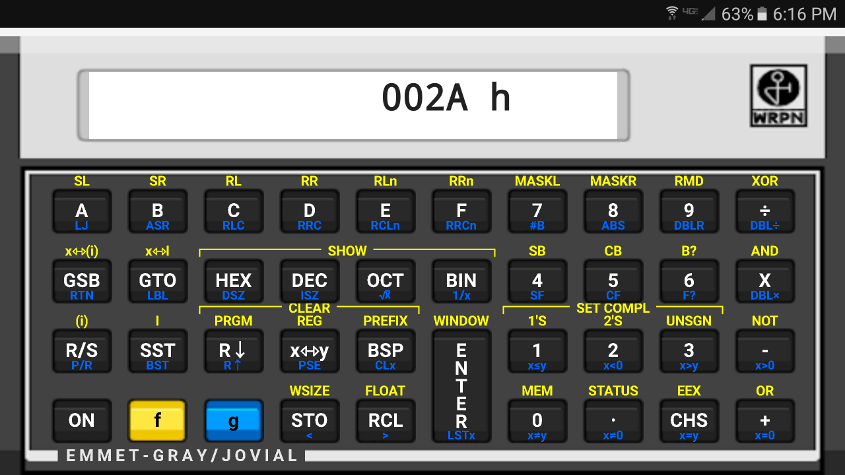
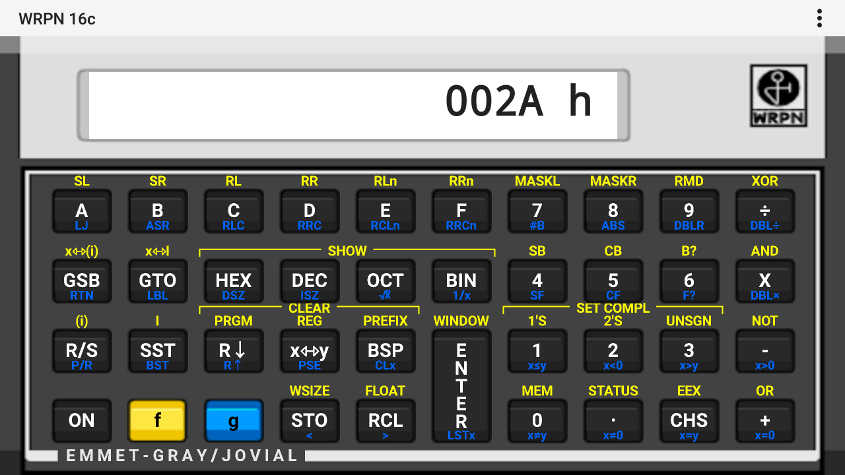
Various fixes to display font sizing.

Changed region(s): [[0.0, 0.0, 1.0, 0.0589], [0.4308, 0.1768, 0.6462, 0.2653], [0.6769, 0.1768, 0.7077, 0.2358]]

diff --git a/app/src/main/java/com/emmetgray/wrpn/DynamicEditText.java b/app/src/main/java/com/emmetgray/wrpn/DynamicEditText.java
@@ -1,16 +1,25 @@
 package com.emmetgray.wrpn;
 
+import android.annotation.SuppressLint;
 import android.content.Context;
 import android.content.res.TypedArray;
+import android.graphics.Paint;
 import android.util.AttributeSet;
+import android.util.Log;
+import android.util.TypedValue;
 import android.view.Gravity;
 import android.widget.EditText;
 
 // a modification of the normal EditText box that allows for the size
 // of the font to dynamically change based upon the length of the string
+@SuppressLint("AppCompatCustomView")
 public class DynamicEditText extends EditText {
-    private float pBaseFontSize = 10f;
-    private int pLengthThreshold = -1;
+
+    private final static String MAX_LARGE_TEXT = "88888888888888888888";
+    private final static String MAX_SMALL_TEXT = " 00000000 00000000 00000000 00000000 .b.";
+
+    private float largeTextSize = 20f;
+    private float smallTextSize = 10f;
 
     public DynamicEditText(Context context) {
         super(context);
@@ -21,10 +30,6 @@ public class DynamicEditText extends EditText {
 
         TypedArray a = getContext().obtainStyledAttributes(attrs,
                 R.styleable.DynamicEditText);
-        pBaseFontSize = a.getFloat(R.styleable.DynamicEditText_baseFontSize,
-                10f);
-        pLengthThreshold = a.getInt(
-                R.styleable.DynamicEditText_lengthThreshold, -1);
         a.recycle();
     }
 
@@ -33,46 +38,54 @@ public class DynamicEditText extends EditText {
 
         TypedArray a = getContext().obtainStyledAttributes(attrs,
                 R.styleable.DynamicEditText);
-        pBaseFontSize = a.getFloat(R.styleable.DynamicEditText_baseFontSize,
-                10f);
-        pLengthThreshold = a.getInt(
-                R.styleable.DynamicEditText_lengthThreshold, -1);
         a.recycle();
     }
 
-    // this is the "standard" (smaller) size font
-    public float getBaseFontSize() {
-        return pBaseFontSize;
+    public void setTextSizes(ScaleInfo scaleInfo, int width) {
+        // calculate the size of the font to fill the screen
+        float padding = 2f*getPaddingLeft() + scaleInfo.scale(5);
+        largeTextSize = calculateDisplayFont(MAX_LARGE_TEXT, width, padding, scaleInfo);
+        smallTextSize = calculateDisplayFont(MAX_SMALL_TEXT, width, padding, scaleInfo);
+        setText(getText());
     }
 
-    public void setBaseFontSize(float size) {
-        pBaseFontSize = size;
+    private float calculateDisplayFont(String text, float width, float padding, ScaleInfo scaleInfo) {
+        float small = 1;
+        float large = scaleInfo.scale(55);
+
+        while (large - small > 0.25f) {
+            float mid = (large + small) / 2;
+            Paint p = getPaint();
+            p.setTextSize(mid);
+            float w = TypedValue.applyDimension(
+                    TypedValue.COMPLEX_UNIT_DIP, p.measureText(text),
+                    getResources().getDisplayMetrics());
+            if (w <= width - padding) {
+                small = mid;
+            } else {
+                large = mid;
+            }
+        }
+        return small;
     }
 
-    // this is the threshold for switching to the smaller font
-    public int getLengthThreshold() {
-        return pLengthThreshold;
-    }
-
-    public void setLengthThreshold(int length) {
-        pLengthThreshold = length;
-    }
 
     public void setText(String text) {
         String temp = text.trim();
 
-        if (temp.length() > pLengthThreshold) {
+        if (temp.length() > MAX_LARGE_TEXT.length()) {
             this.setGravity(Gravity.AXIS_PULL_BEFORE + Gravity.CENTER);
             // no modification of either the text or the size
-            this.setTextSize(pBaseFontSize);
+            this.setTextSize(smallTextSize);
             super.setText(text);
         } else {
-            this.setGravity(Gravity.TOP);
-            this.setTextSize(pBaseFontSize * 2f);
             // adjust the padding
-            if (text.startsWith(" ")) {
-                text = text.substring(pLengthThreshold);
+            if (text.length() > MAX_LARGE_TEXT.length()) {
+                text = text.substring(text.length() - MAX_LARGE_TEXT.length());
             }
+
+            this.setGravity(Gravity.TOP);
+            this.setTextSize(largeTextSize);
             super.setText(text);
         }
     }

diff --git a/app/src/main/java/com/emmetgray/wrpn/fmMain.java b/app/src/main/java/com/emmetgray/wrpn/fmMain.java
@@ -883,28 +883,7 @@ public class fmMain extends AppCompatActivity {
                 pnCalcFace.updateViewLayout(et, new AbsoluteLayout.LayoutParams(width,
                         height, x, y));
 
-                // calculate the size of the font to fill the screen
-                String mText = "00000000 00000000 00000000 00000000 .b.";
-                Paint mTextPaint = new Paint();
-                mTextPaint.setTypeface(Typeface.MONOSPACE);
-                float scale;
-                float padding = TypedValue.applyDimension(
-                        TypedValue.COMPLEX_UNIT_DIP, et.getPaddingLeft(),
-                        getResources().getDisplayMetrics());
-
-                for (scale = 50; scale > 0.25f; scale -= 0.25f) {
-                    mTextPaint.setTextSize(scale);
-                    float t = mTextPaint.measureText(mText);
-                    // convert to pixels
-                    float px = TypedValue.applyDimension(
-                            TypedValue.COMPLEX_UNIT_DIP, t, getResources()
-                                    .getDisplayMetrics());
-                    // this isn't an exact science, so we fudge the width a wee bit
-                    if (px < width*0.92f - (padding * 2))
-                        break;
-                }
-                et.setTextSize(scale);
-                et.setBaseFontSize(scale);
+                et.setTextSizes(scaleInfo, width);
                 continue;
             }
 
@@ -971,6 +950,7 @@ public class fmMain extends AppCompatActivity {
         // process a dummy key to refresh the display
         ProcessPacket(c.ProcessKey(-1));
     }
+
 
     // handle all of the resizing here.  I like precise control over
     // the location and sizes.
